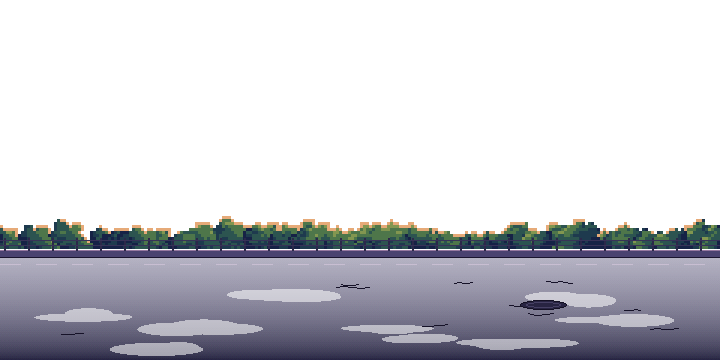
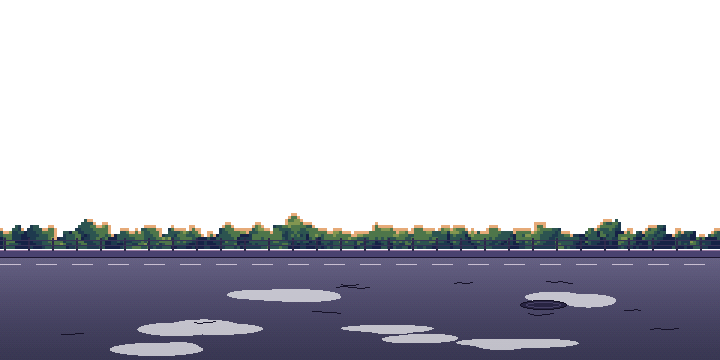
Skytrain-style train livery; road reflects mainly in puddles
- make_train(): light grey roof, red line under it, white upper body
  with a black glass window band, royal-blue lower body, black cab faces
  outlined in red, head/tail lights (no logos).
- Road: damp asphalt with only a faint sheen (slightly more toward the
  far edge); strong reflections only in the puddles. Hero and train
  reflections fainter to match.

Claude-Session: https://claude.ai/code/session_011NAKRUA9btL4iodwTEM3Dh

Changed region(s): [[0.0, 0.5806, 1.0, 0.9472], [0.1528, 0.9778, 0.275, 1.0]]

diff --git a/tools/compose_sunset_scene.py b/tools/compose_sunset_scene.py
@@ -13,7 +13,8 @@ scene can scroll forever (Parallax2D.repeat_size in the game):
   railway_back.png  railway tile made from railway_long.png, joined end to end along the
                     least visible cut (width printed at the end = RAIL_TILE in the scene)
   railway_fill.png  dark foliage behind the railway (no sky under the trees)
-  train.png         a 4-car commuter train drawn in pixel art (wheels on the near rail)
+  train.png         a 4-car skytrain (white / blue / red livery) drawn in pixel art,
+                    wheels on the near rail
   sky_reflect.png   the sky mirrored in the wet road (moves with the sky)
   city_reflect.png  the city mirrored in the wet road (moves with the city)
   rail_reflect.png  the railway mirrored in the wet road (moves with the railway)
@@ -201,74 +202,81 @@ def build_railway():
 
 
 def make_train(cars=4, car_w=112, gap=3):
-    """Side view of a commuter train at dusk, wheels on the bottom row.
-    The side faces away from the low sun: muted body, warm lit windows,
-    an orange rim of sunlight along the roof. Moves right (cab at both ends)."""
+    """Side view of a Bangkok-skytrain-style train at dusk (no logos), wheels on
+    the bottom row: light grey roof, red line under it, white upper body with a
+    black glass window band, royal-blue lower body, black cab faces outlined in
+    red. The side is in shade (the sun is behind), so colours are a bit muted;
+    the roof edge catches the sunset. Moves right; cab at both ends."""
     H = 24
     W = cars * car_w + (cars - 1) * gap
     img = Image.new("RGBA", (W, H), (0, 0, 0, 0))
     d = ImageDraw.Draw(img)
-    ink = (22, 18, 40, 255)
-    roof, rim, gutter = (70, 72, 112, 255), (246, 176, 120, 255), (42, 40, 72, 255)
-    body, body_lo, door = (124, 128, 168, 255), (96, 98, 138, 255), (104, 108, 148, 255)
-    stripe, under, bogie = (232, 146, 92, 255), (40, 36, 64, 255), (30, 26, 50, 255)
-    lit, lit_top, glass = (250, 202, 128, 255), (255, 232, 176, 255), (58, 66, 108, 255)
+    ink = (20, 18, 36, 255)
+    rim, roof, roof_lo = (250, 184, 136, 255), (156, 156, 178, 255), (122, 122, 150, 255)
+    red, red_lo = (206, 46, 58, 255), (150, 34, 52, 255)
+    white, white_lo = (206, 208, 226, 255), (170, 174, 202, 255)
+    glass, glass_hi, glow = (26, 26, 40, 255), (64, 68, 96, 255), (120, 96, 76, 255)
+    blue, blue_lo, skirt = (40, 70, 168, 255), (30, 52, 132, 255), (24, 32, 80, 255)
+    door_gap, under, bogie = (110, 114, 146, 255), (36, 34, 54, 255), (28, 26, 44, 255)
     trng = random.Random(3)
     for c in range(cars):
         x0 = c * (car_w + gap)
         x1 = x0 + car_w - 1
-        d.rectangle((x0, 1, x1, 19), fill=body)
-        d.rectangle((x0, 1, x1, 3), fill=roof)
-        d.line([(x0 + 2, 0), (x1 - 2, 0)], fill=rim)          # sunlit roof edge
-        d.line([(x0, 4), (x1, 4)], fill=gutter)
-        d.rectangle((x0, 15, x1, 18), fill=body_lo)
-        d.line([(x0, 13), (x1, 13)], fill=stripe)
-        d.line([(x0, 14), (x1, 14)], fill=(196, 112, 82, 255))
-        d.line([(x0, 19), (x1, 19)], fill=under)
-        # doors (4 per side) and windows between them
+        d.rectangle((x0, 1, x1, 2), fill=roof)
+        d.line([(x0 + 2, 0), (x1 - 2, 0)], fill=rim)            # sunlit roof edge
+        d.line([(x0, 3), (x1, 3)], fill=roof_lo)
+        d.line([(x0, 4), (x1, 4)], fill=red)                    # red line under the roof
+        d.rectangle((x0, 5, x1, 12), fill=white)
+        d.line([(x0, 12), (x1, 12)], fill=white_lo)
+        d.rectangle((x0, 13, x1, 18), fill=blue)                # blue lower body
+        d.line([(x0, 18), (x1, 18)], fill=blue_lo)
+        d.line([(x0, 19), (x1, 19)], fill=skirt)
+        # black glass window band, interrupted by 4 doors with tall windows
         doors = [x0 + 10 + k * (car_w - 26) // 3 for k in range(4)]
+        d.rectangle((x0 + 2, 6, x1 - 2, 10), fill=glass)
+        for wx in range(x0 + 3, x1 - 2, 9):                     # window pillars + dim cabin light
+            d.line([(wx, 6), (wx, 10)], fill=white_lo)
+            if trng.random() < 0.6:
+                d.line([(wx + 2, 9), (wx + 6, 9)], fill=glow)
+        d.line([(x0 + 2, 6), (x1 - 2, 6)], fill=glass_hi)       # sky glint on the glass
         for dx in doors:
-            d.rectangle((dx, 5, dx + 6, 18), fill=door)
-            d.line([(dx + 3, 5), (dx + 3, 18)], fill=gutter)
-            for wx in (dx + 1, dx + 4):
-                d.rectangle((wx, 6, wx + 1, 10), fill=lit)
-        for a_, b_ in zip([x0 + 2] + [dx + 8 for dx in doors], doors + [x1 - 1]):
-            wx = a_ + 1
-            while wx + 7 <= b_ - 1:
-                on = trng.random() > 0.15
-                d.rectangle((wx, 6, wx + 6, 11), fill=lit if on else glass)
-                if on:
-                    d.line([(wx, 6), (wx + 6, 6)], fill=lit_top)
-                    if trng.random() < 0.45:          # a passenger's head
-                        hx = wx + trng.randint(1, 4)
-                        d.rectangle((hx, 9, hx + 1, 11), fill=(70, 50, 70, 255))
-                        d.point((hx, 8), fill=(70, 50, 70, 255))
-                wx += 8
+            d.rectangle((dx - 1, 5, dx + 7, 18), fill=door_gap)
+            for wx in (dx, dx + 4):
+                d.rectangle((wx, 5, wx + 2, 18), fill=white if wx == dx else white_lo)
+                d.rectangle((wx + 1, 6, wx + 1, 12), fill=glass)
+                d.rectangle((wx, 13, wx + 2, 18), fill=blue if wx == dx else blue_lo)
         # bogies with two wheels each, equipment boxes between them
         for bx in (x0 + 10, x1 - 22):
             d.rectangle((bx, 20, bx + 12, 21), fill=bogie)
             for wx in (bx + 2, bx + 8):
-                d.ellipse((wx - 1, 20, wx + 2, 23), fill=(18, 16, 32, 255))
-                d.point((wx, 21), fill=(90, 86, 120, 255))
+                d.ellipse((wx - 1, 20, wx + 2, 23), fill=(16, 14, 28, 255))
+                d.point((wx, 21), fill=(96, 92, 120, 255))
         d.rectangle((x0 + 30, 20, x1 - 32, 21), fill=under)
-        if c < cars - 1:                                       # gangway to the next car
-            d.rectangle((x1 + 1, 6, x1 + gap, 17), fill=(34, 30, 58, 255))
-    # cab ends: sloped nose with windscreen, headlight in front, tail light behind
+        if c < cars - 1:                                         # gangway to the next car
+            d.rectangle((x1 + 1, 5, x1 + gap, 18), fill=(30, 28, 48, 255))
+    # Cab ends: rounded, sloped black face outlined in red, white and blue below it,
+    # headlight in front (right end), tail light at the back
     for end, sign in ((W - 1, -1), (0, 1)):
-        for k in range(5):                                     # cut the top corner diagonally
-            for y in range(1, 6 - k):
+        for k in range(6):                                       # round off the top corner
+            for y in range(0, max(0, 5 - k)):
                 img.putpixel((end + sign * k, y), (0, 0, 0, 0))
-        for y in range(5, 12):
-            for k in range(1, 6):
-                img.putpixel((end + sign * k, y), glass if y > 6 else (120, 130, 170, 255))
-        img.putpixel((end + sign * 2, 16), (255, 240, 200, 255) if sign < 0 else (230, 60, 60, 255))
-        img.putpixel((end + sign * 3, 16), (255, 240, 200, 255) if sign < 0 else (230, 60, 60, 255))
-    # 1px dark outline around the silhouette
+        for y in range(3, 14):
+            depth = 7 if y > 4 else 7 - (5 - y) * 2
+            for k in range(0, depth):
+                img.putpixel((end + sign * k, y), glass)
+            img.putpixel((end + sign * depth, y), red)           # red outline of the face
+        for k in range(0, 8):
+            img.putpixel((end + sign * k, 13), red_lo if k < 7 else red)
+        img.putpixel((end + sign * 1, 6), glass_hi)
+        img.putpixel((end + sign * 2, 6), glass_hi)
+        light = (255, 244, 214, 255) if sign < 0 else (236, 52, 52, 255)
+        for k in (1, 2, 3):
+            img.putpixel((end + sign * k, 12), light)
+    # 1px dark outline around the silhouette (the sunlit roof edge stays)
     a = np.asarray(img).copy()
     solid = a[..., 3] > 0
     edge = solid & ~(np.roll(solid, 1, 0) & np.roll(solid, -1, 0) & np.roll(solid, 1, 1) & np.roll(solid, -1, 1))
-    edge[0, :] &= solid[0, :]
-    keep = (a[..., 0] == rim[0]) & (a[..., 1] == rim[1])       # keep the sunlit roof edge
+    keep = (a[..., 0] == rim[0]) & (a[..., 1] == rim[1])
     a[edge & ~keep] = ink
     return Image.fromarray(a, "RGBA")
 
@@ -306,7 +314,7 @@ def build_road(sky, city, fill, back):
     dither = BAYER[yy % 4, xx % 4]
     # Puddles (wrap around the tile edge): the asphalt is thinner there, so more reflection
     puddle = np.zeros((h, TILE), bool)
-    for _ in range(9):
+    for _ in range(7):
         cx, cy = rng.uniform(0, TILE), rng.uniform(ROAD_TOP + 12, 350)
         for _k in range(3):
             ex, ey = cx + rng.uniform(-25, 25), cy + rng.uniform(-3, 3)
@@ -317,8 +325,10 @@ def build_road(sky, city, fill, back):
     for y in range(ROAD_TOP, h):
         t = (y - ROAD_TOP) / (h - ROAD_TOP)
         road[y, :, :3] = np.floor((asphalt_far * (1 - t) + asphalt_near * t) / 6 + dither[y, :, None] * 0.9) * 6
-        alpha = 1 - 0.62 * (1 - t) ** 0.6
-        road[y, :, 3] = np.where(puddle[y], alpha * 0.45, alpha) * 255
+        # Damp asphalt shows only a faint sheen (more at the far edge, where we look
+        # at it at a grazing angle); the puddles are real mirrors
+        sheen = 0.12 + 0.10 * (1 - t) ** 2
+        road[y, :, 3] = np.where(puddle[y], 0.28, 1 - sheen) * 255
     img = Image.fromarray(np.clip(road, 0, 255).astype(np.uint8), "RGBA")
     img.alpha_composite(hedge())
     d = ImageDraw.Draw(img)

diff --git a/README.md b/README.md
@@ -47,9 +47,9 @@ assets/textures/         texture พิกเซลสำหรับฉาก H
   ต่อหัวท้ายโดยซ้อนปลายภาพทับต้นภาพ แล้วหาเส้นตัดที่สองฝั่งต่างกันน้อยที่สุด (ผ่านช่องว่าง/ตัวสะพาน/ใบไม้ที่คล้ายกัน) จึงมองไม่เห็นรอยต่อ
 - ตึกในเมืองยังแยกมาจากภาพทางรถไฟเดิม (`railway.png`) เป็นชั้นไกล
 - เติมแนวพุ่มไม้เงาเข้มไว้หลังชั้นทางรถไฟ (`railway_fill`) ไม่ให้เห็นท้องฟ้าใต้ต้นไม้
-- วาดรถไฟพิกเซล 4 ตู้ (`make_train`) ล้อวางบนรางหน้าพอดี อยู่ในชั้นของตัวเอง (`TrainLayer`, ความเร็ว parallax เท่าทางรถไฟ ไม่วาดซ้ำ)
+- วาดรถไฟฟ้าพิกเซล 4 ตู้ สีขาว/น้ำเงิน/เส้นแดง หน้ารถสีดำ (`make_train`) ล้อวางบนรางหน้าพอดี อยู่ในชั้นของตัวเอง (`TrainLayer`, ความเร็ว parallax เท่าทางรถไฟ ไม่วาดซ้ำ)
   วิ่งผ่านจอจากนอกจอซ้ายไปพ้นจอขวา (`across_screen` ใน `train.gd`)
-- วาดถนนเปียกมุมข้างที่สะท้อนท้องฟ้า+ทางรถไฟ, เงาสะท้อนรถไฟที่วิ่งตาม (`scripts/follow_x.gd`)
+- วาดถนนยางมะตอยชื้น สะท้อนจางๆ (ชัดขึ้นเล็กน้อยไกลตา) และสะท้อนชัดเฉพาะในแอ่งน้ำ, เงาท้องฟ้า+ทางรถไฟ, เงาสะท้อนรถไฟที่วิ่งตาม (`scripts/follow_x.gd`)
   และเงาสะท้อนตัวละครแบบกลับหัวมีระลอกน้ำ (`shaders/water_reflection.gdshader`)
 - รั้วและแนวพุ่มไม้วาดที่ 1/3 ความละเอียดแล้วขยาย 3 เท่า ให้พิกเซลใหญ่เท่าภาพต้นฉบับ
 
